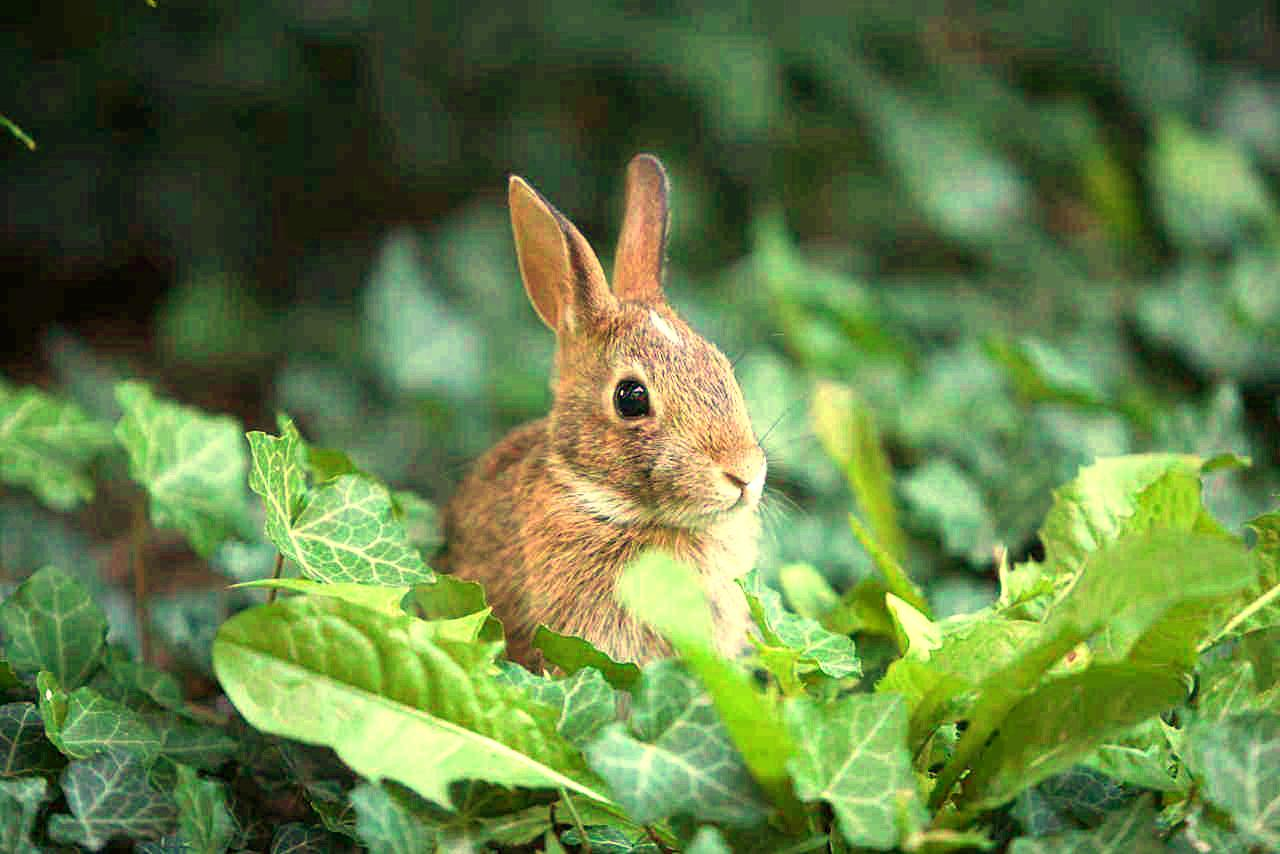
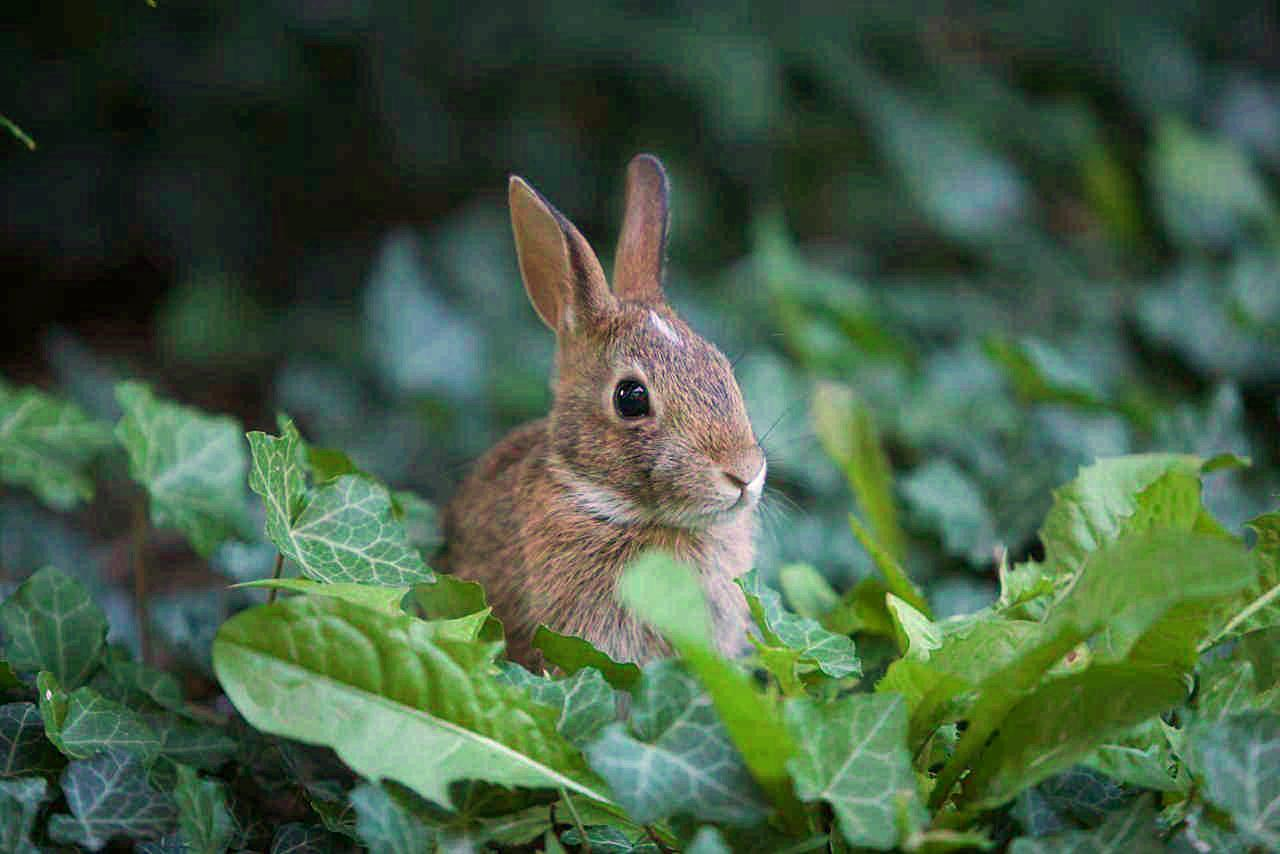
downscale img

diff --git a/L1/Q3.m b/L1/Q3.m
@@ -7,11 +7,11 @@ green_ch = img(:,:,2);
 blue_ch = img(:,:,3);
 
 % scale red and green channels
-red_ch = red_ch .* 8;
-green_ch = green_ch .* 7;
+red_ch = red_ch .* 5.5;
+green_ch = green_ch .* 5.2;
 
 % reconstruct new image with scaled channels
 reconstructed_img = cat(3, red_ch, green_ch, blue_ch);
 imshow(reconstructed_img);
 
-imwrite(reconstructed_img, 'reconstructed_img.jpg');
+imwrite(reconstructed_img, 'images/Q3/reconstructed_img.jpg');
